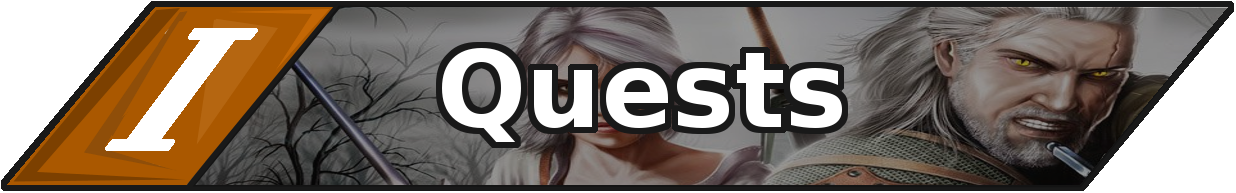
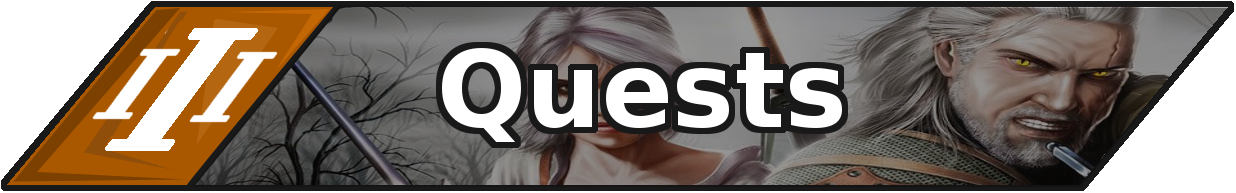
fixes

Changed region(s): [[0.0615, 0.2487, 0.1537, 0.6218], [0.1537, 0.2487, 0.246, 0.6528]]

diff --git a/src/pages/Menu.tsx b/src/pages/Menu.tsx
@@ -1,114 +1,37 @@
-import React, { useEffect, useState } from "react";
 import "../style/style.scss";
 import Header from "../components/Header";
 import Footer from "../components/Footer";
 import { useNavigate } from "react-router-dom";
 import witcher3choose1 from "../assets/ui/witcher3choose1.png";
 import witcher1choose1 from "../assets/ui/witcher1choose1.png";
-import witcher2choose1 from "../assets/ui/witcher2choose1.png";
 
 function Menu() {
 	const navigate = useNavigate();
-	const [counter, setCounter] = useState(localStorage.getItem("index") ? Number(localStorage.getItem("index")) : 3);
-	const [content, changeContent] = useState(<></>);
-	const [opacity, changeOpacity] = useState(counter);
-
-	const handleButtonClick = () => {
-		if (counter === 3) {
-			setCounter(1);
-		} else {
-			setCounter(3);
-		}
-	};
-
-	useEffect(() => {
-		switch (counter) {
-			case 1:
-				changeContent(<></>);
-				changeOpacity(1);
-				break;
-			case 2:
-				changeContent(<></>);
-				changeOpacity(2);
-				break;
-
-			case 3:
-				changeContent(<></>);
-				changeOpacity(3);
-				break;
-			default:
-				changeContent(<></>);
-		}
-		localStorage.setItem("index", counter.toString());
-	}, [counter, navigate]);
-
-	useEffect(() => {
-		switch (opacity) {
-			case 3:
-				changeContent(
-					<>
-						<div className='witcher_choose'>
-							<button
-								onClick={() => {
-									navigate("/salamander");
-								}}
-							>
-								<img src={witcher1choose1} alt='quests'></img>
-							</button>
-						</div>
-						<div className='witcher3_choose'>
-							<button
-								onClick={() => {
-									navigate("/wildhunt");
-								}}
-							>
-								<img src={witcher3choose1} alt='quests'></img>
-							</button>
-						</div>
-					</>
-				);
-				break;
-			case 2:
-				changeContent(
-					<>
-						<div className='witcher2_choose'>
-							<button
-								onClick={() => {
-									navigate("/kingslayer");
-								}}
-							>
-								<img src={witcher2choose1} alt='quests'></img>
-							</button>
-						</div>
-					</>
-				);
-				break;
-
-			case 1:
-				changeContent(
-					<>
-						<div className='witcher_choose'>
-							<button
-								onClick={() => {
-									navigate("/salamander");
-								}}
-							>
-								<img src={witcher1choose1} alt='quests'></img>
-							</button>
-						</div>
-					</>
-				);
-				break;
-			default:
-				changeContent(<></>);
-		}
-	}, [opacity, navigate]);
 
 	return (
 		<>
-			<Header counter={counter} onButtonClick={handleButtonClick} />
-			<main className='menu'>{content}</main>
-			<Footer counter={counter} />
+			<Header />
+			<main className='menu'>
+				<div className='witcher_choose'>
+					<button
+						onClick={() => {
+							navigate("/salamander");
+						}}
+					>
+						<img src={witcher1choose1} alt='quests'></img>
+					</button>
+				</div>
+				<div className='witcher3_choose'>
+					<button
+						onClick={() => {
+							navigate("/wildhunt");
+						}}
+					>
+						<img src={witcher3choose1} alt='quests'></img>
+					</button>
+				</div>
+			</main>
+			<Footer />
 		</>
 	);
 }

diff --git a/src/components/Header.tsx b/src/components/Header.tsx
@@ -1,13 +1,12 @@
 import { useState } from "react";
 import { useLocation, useNavigate } from "react-router-dom";
 import "../style/style.scss";
-import witcherlogo from "../assets/ui/witcherlogo.png";
-import witcherlogo2 from "../assets/ui/witcher1logo.png";
-import witcherlogo3 from "../assets/ui/witcher2logo.png";
 
-const Header = ({ counter, onButtonClick }: { counter: number; onButtonClick: any }) => {
+import witcherlogo2 from "../assets/ui/witcher1logo.png";
+
+const Header = () => {
 	const location = useLocation();
-	const logos = [witcherlogo2, witcherlogo3, witcherlogo];
+	const logos = witcherlogo2;
 	const navigate = useNavigate();
 
 	const [spin, setSpin] = useState(0);
@@ -24,7 +23,7 @@ const Header = ({ counter, onButtonClick }: { counter: number; onButtonClick: an
 		<header className={`witcher1_header`}>
 			<div className='headerContainer'>
 				<button onClick={handleLogoClick} onAnimationEnd={() => setSpin(0)} data-spin={spin}>
-					<img src={logos[0]} alt='logo' />
+					<img src={logos} alt='logo' />
 				</button>
 				<h1>The Witcher</h1>
 				<h3>Quest Tracker</h3>

diff --git a/src/pages/QuestTracker.tsx b/src/pages/QuestTracker.tsx
@@ -1,4 +1,4 @@
-import React, { useEffect, useState } from "react";
+import { useEffect, useState } from "react";
 import "../style/style.scss";
 import Header from "../components/Header";
 import Footer from "../components/Footer";
@@ -20,7 +20,6 @@ function QuestTracker(props: any) {
 	};
 
 	const witcherVersion = props.game;
-	const webId = witcherVersions[witcherVersion][0];
 
 	const [mapImg, changeMap] = useState<number>(0);
 	const locationGroup: { [location: string]: { [type: string]: Quest[] } } = {};
@@ -216,12 +215,12 @@ function QuestTracker(props: any) {
 
 	return (
 		<>
-			<Header counter={webId} onButtonClick={""} />
+			<Header />
 			<main className={`${witcherVersion}quest quests`}>
 				{showMap()}
 				{sortLocation()}
 			</main>
-			<Footer counter={webId} />
+			<Footer />
 		</>
 	);
 }

diff --git a/src/components/Footer.tsx b/src/components/Footer.tsx
@@ -1,22 +1,10 @@
-import React from 'react';
+import React from "react";
 
-const Footer = ({ counter }: { counter: number }) => {
+const Footer = () => {
 	return (
 		<>
-			<footer
-				className={
-					counter === 0
-						? 'witcher3_footer'
-						: counter === 1
-						? 'witcher2_footer'
-						: 'witcher1_footer'
-				}
-			>
-				<a
-					href='https://github.com/LeQu15'
-					target='_blank'
-					rel='noopener noreferrer'
-				>
+			<footer>
+				<a href='https://github.com/LeQu15' target='_blank' rel='noopener noreferrer'>
 					<span className='author'>LeQu </span>
 					<i className='fa-brands fa-github'></i>
 				</a>
